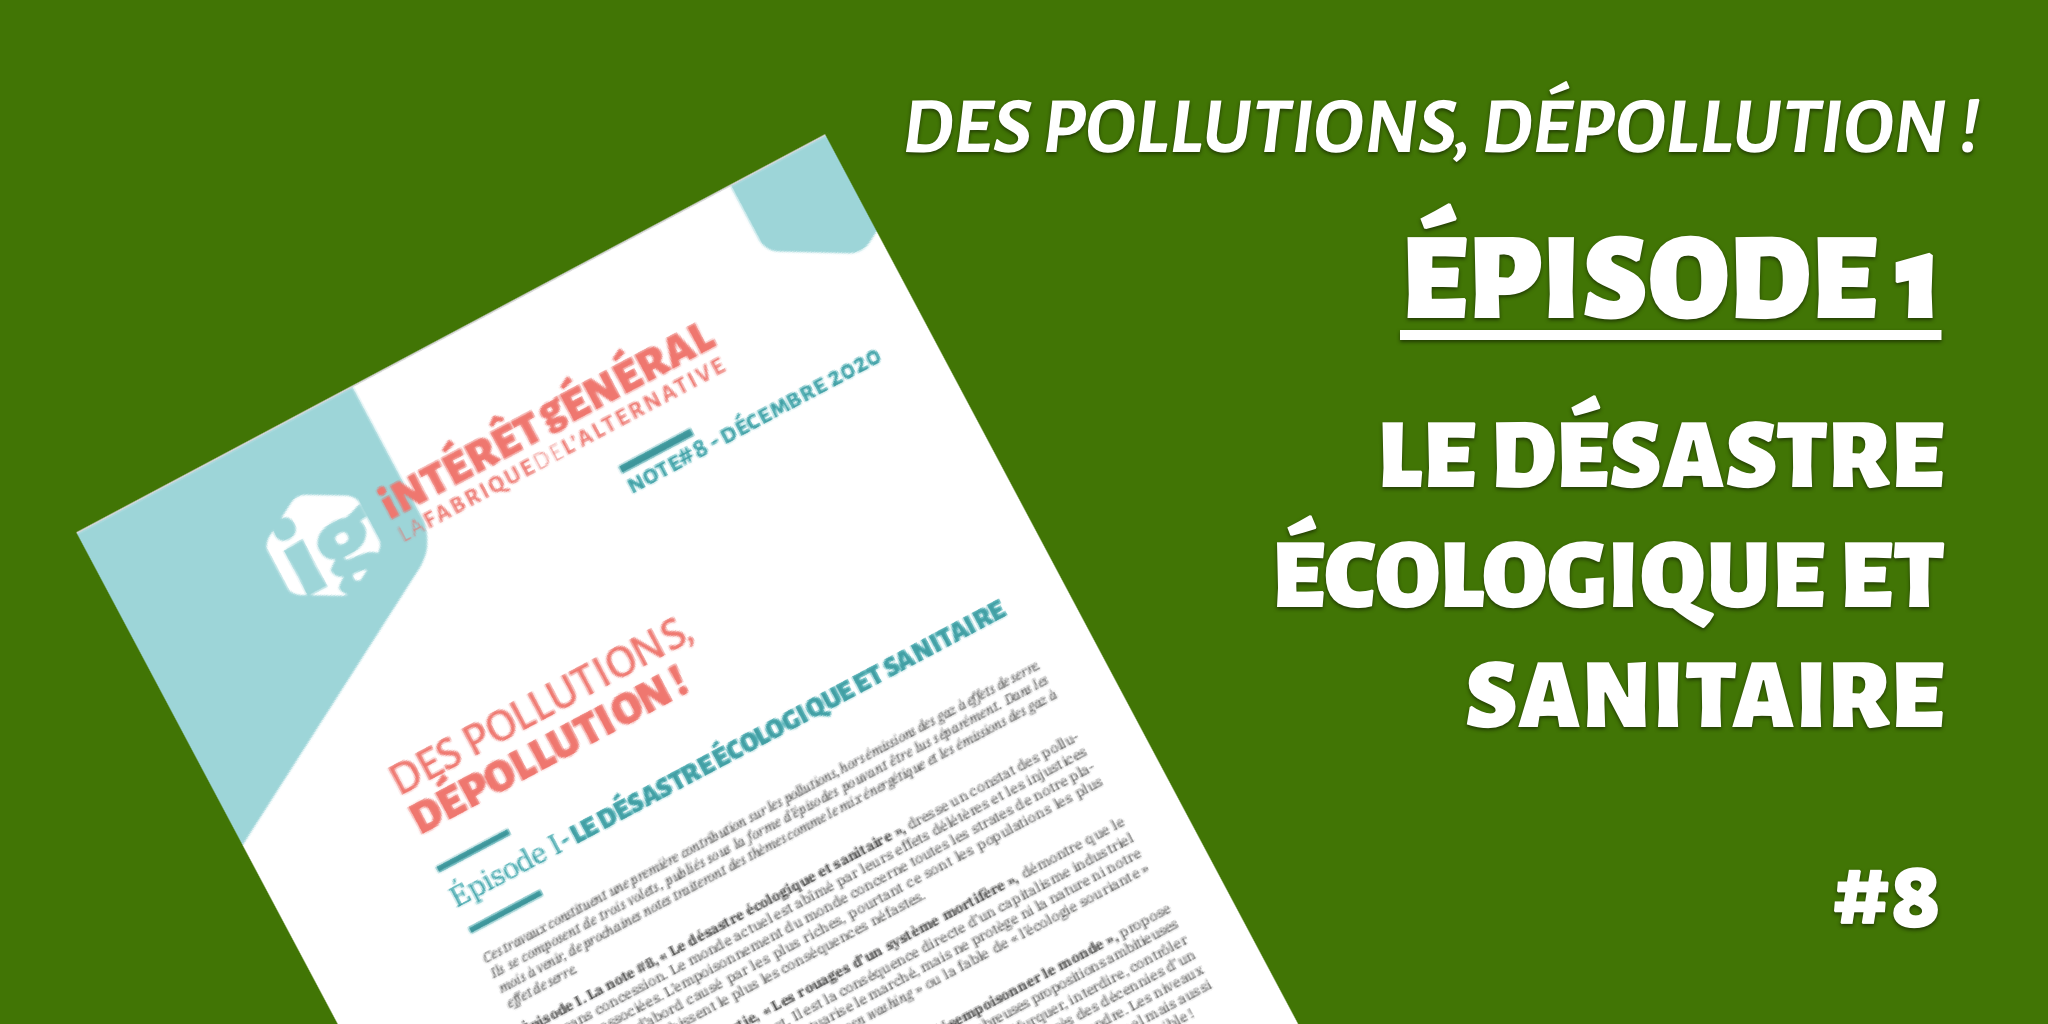
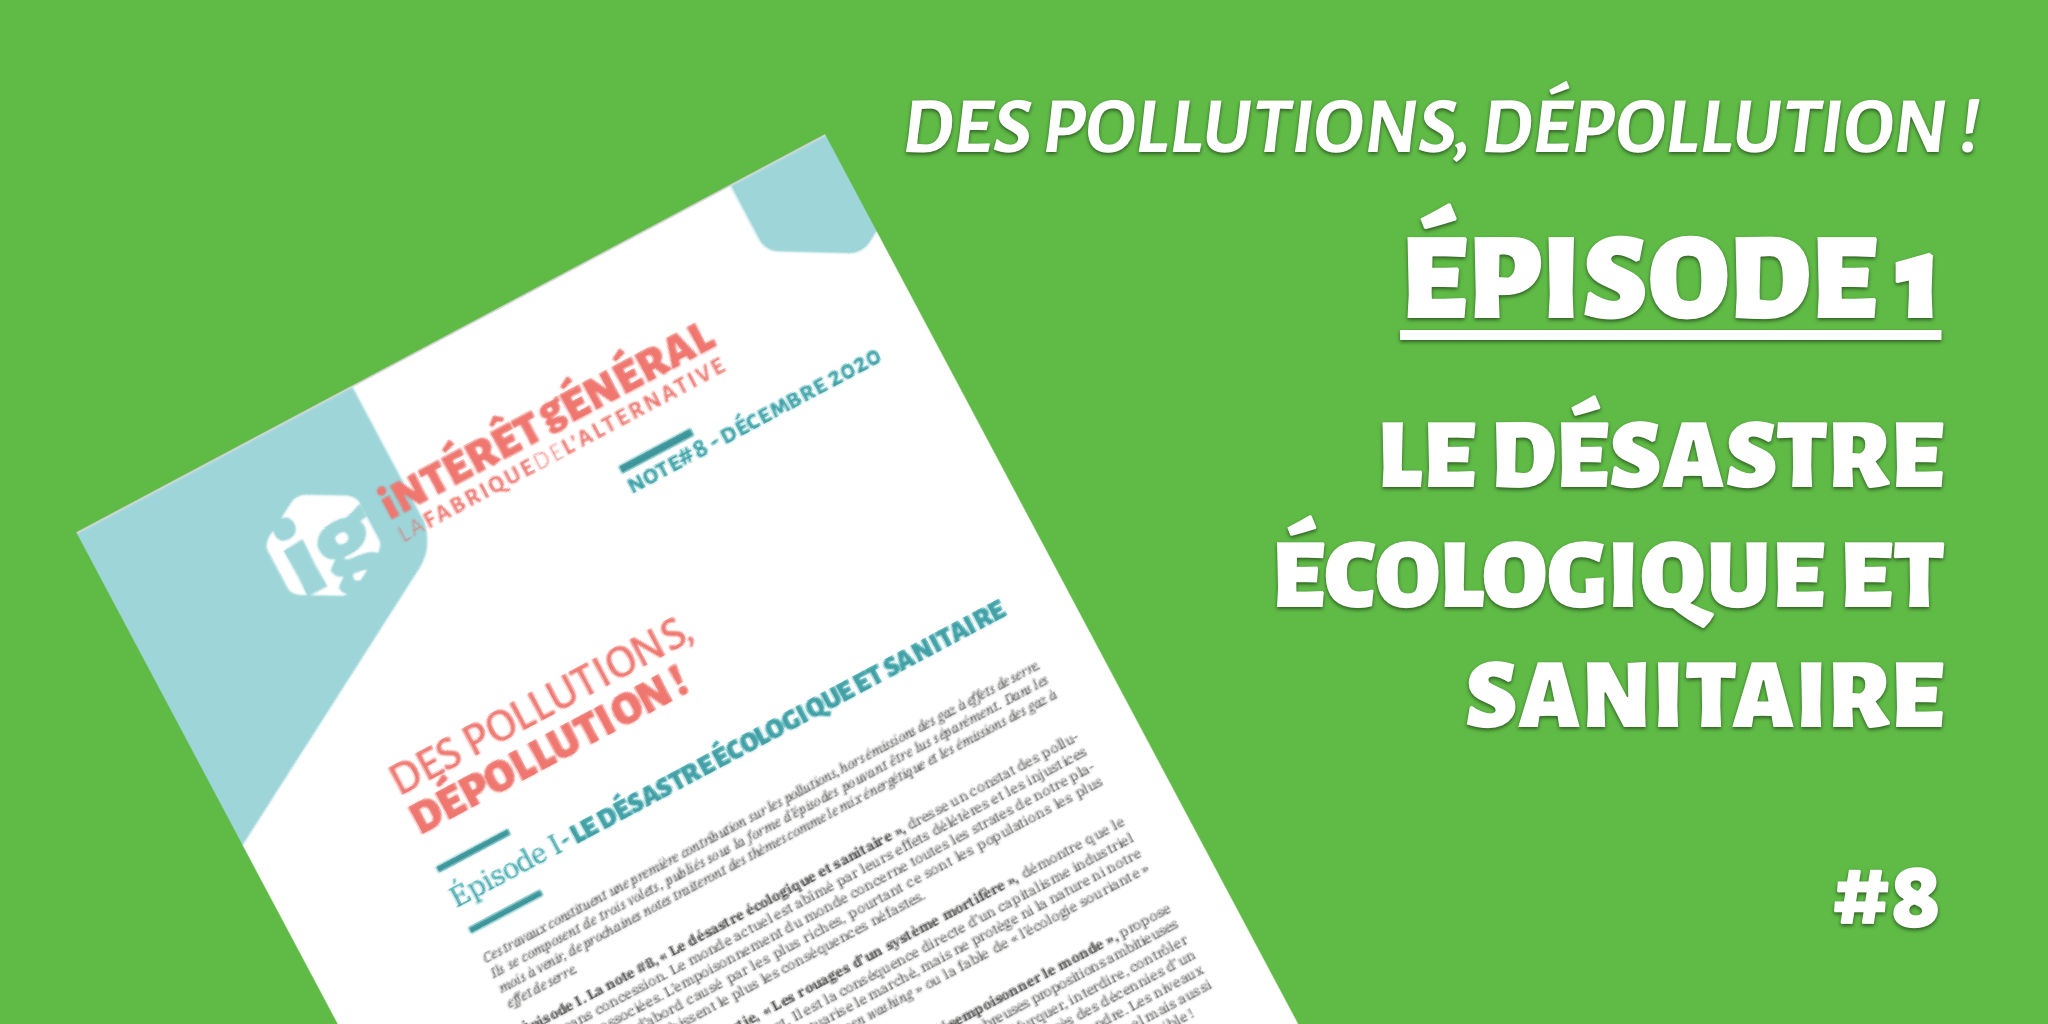
Update image and cover color

diff --git a/publications/index.html b/publications/index.html
@@ -116,9 +116,9 @@
     }
 
     .poster6 {
-      background: #417505;
+      background: #5FBB46;
       background-image:
-        linear-gradient(20deg, #417505, #559807);
+        linear-gradient(20deg, #5FBB46, #6cd150);
       color: rgba(252, 252, 252, 0.98);
     }
 
